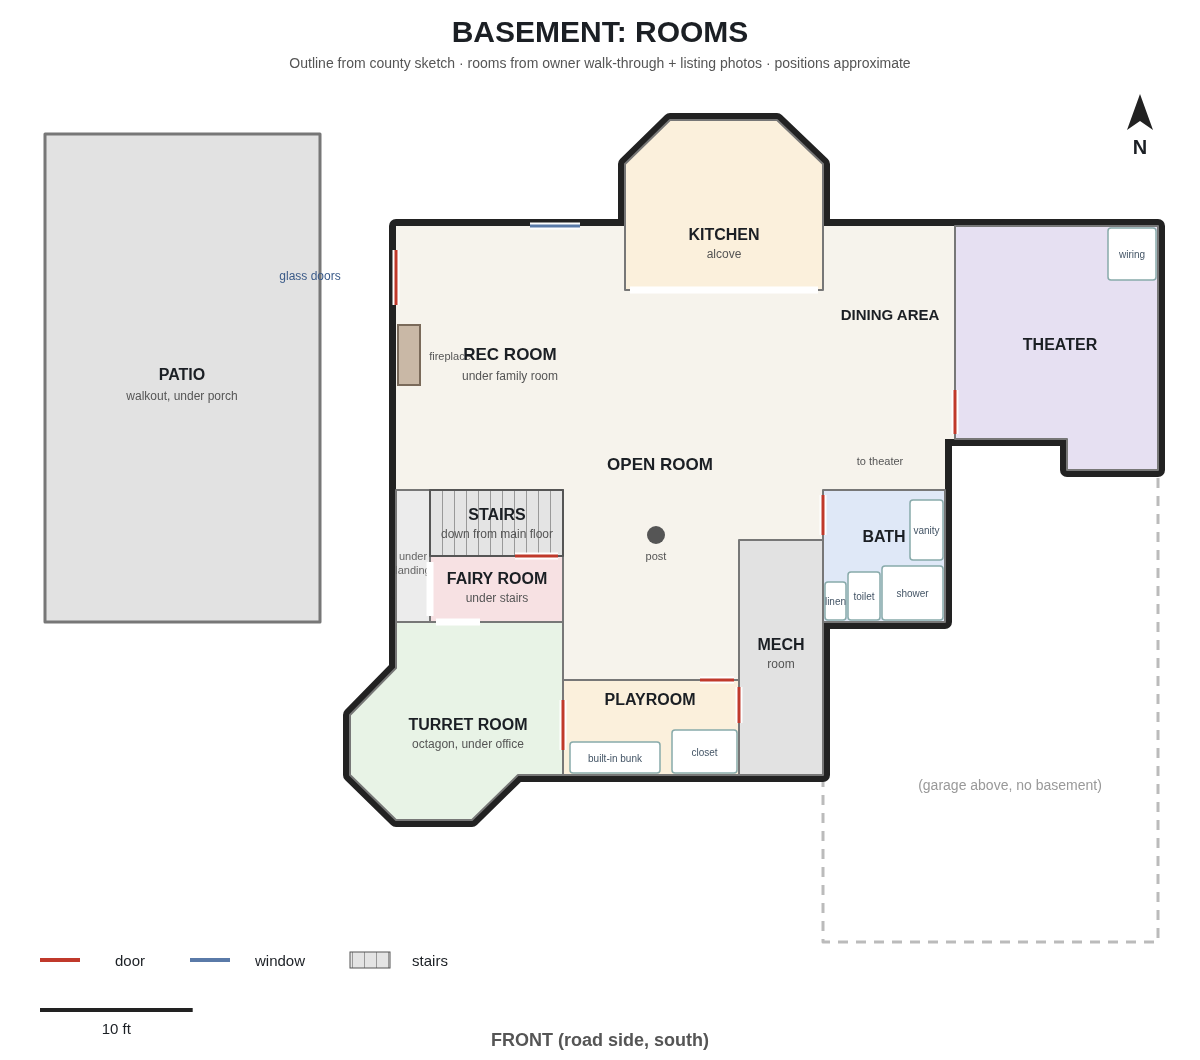
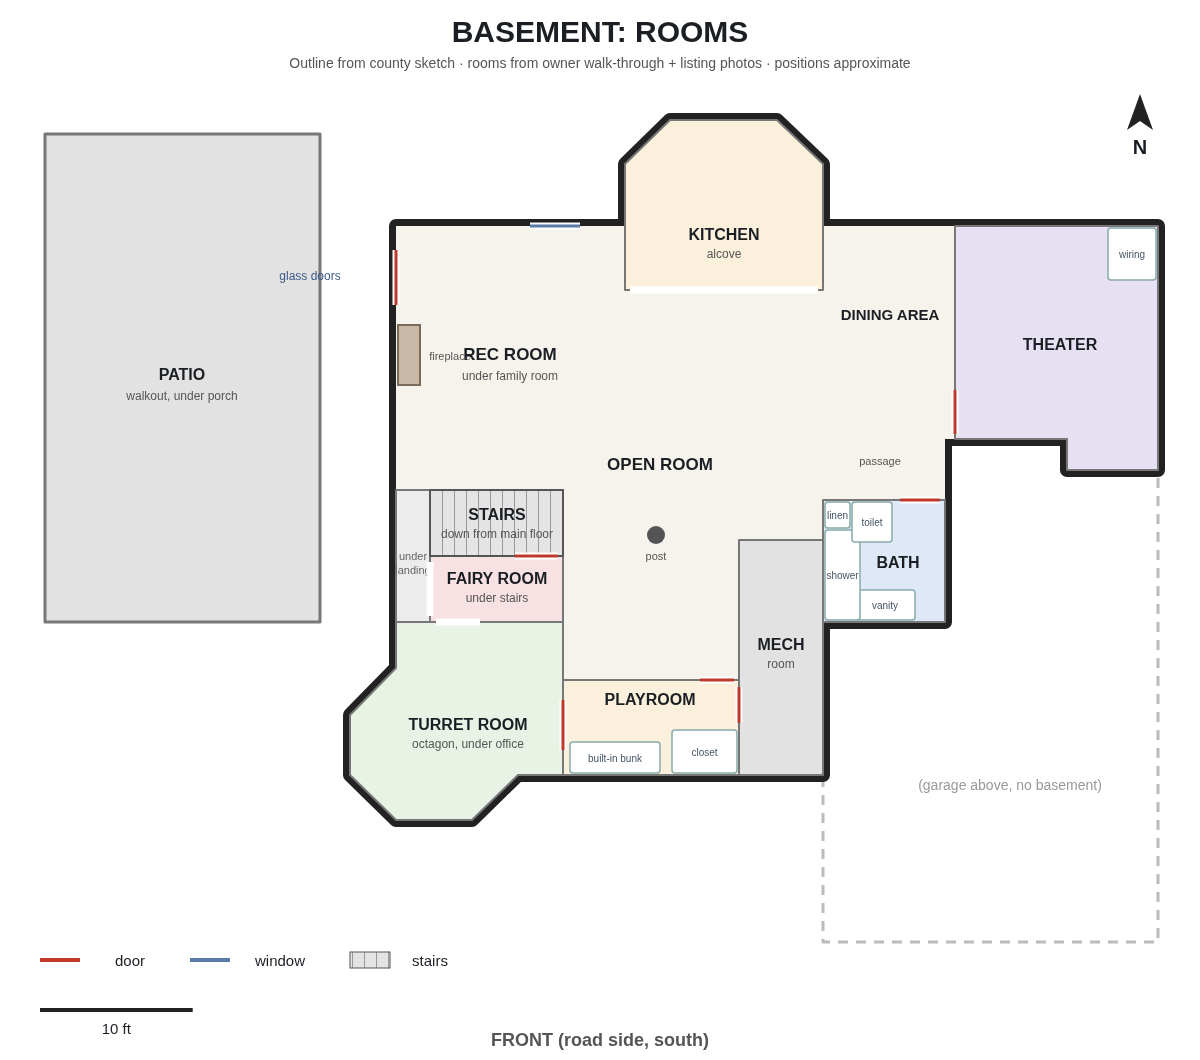
One plan per floor in order main/second/basement; stack basement bath under main bath

Changed region(s): [[0.6783, 0.4358, 0.8017, 0.5915]]

diff --git a/index.html b/index.html
@@ -56,12 +56,13 @@
 
 <section id="floorplans">
   <h2>Floor plans</h2>
-  <p>Outlines traced to scale from the Greene County auditor's building sketch. North is up; the front of the house (road side) faces south. Interior walls, rooms and sensor locations will be added as they're mapped.</p>
-  <figure><img src="img/floorplan/basement-rooms.png?v=202611220005" alt="Basement room plan: U-shaped stairs from the main floor arrive facing an open room with a support post; rec room with fireplace and glass doors to the west walkout; kitchen alcove under the breakfast nook; dining area; theater under the main-floor bedroom with a wiring closet in its northeast corner; bath; mechanical room; long playroom along the south wall with a built-in bunk and closet; turret room under the office reached through the room under the stairs and a hidden bookshelf door."><figcaption>Basement rooms, from the owner's walk-through on the county outline. Finished walkout; no basement under the garage. Positions are approximate.</figcaption></figure>
-  <figure><img src="img/floorplan/main.png?v=202611220005" alt="Main floor outline with vaulted family room, foyer, bump-out, attached garage about 22 by 31, and wraparound porch on the west and south."><figcaption>Main floor: house, attached garage (about 22 × 31) and wraparound porch.</figcaption></figure>
-  <figure><img src="img/floorplan/main-rooms.png?v=202611220005" alt="Main floor room plan: office in the southwest turret, foyer and front hall north from the front door, front room east of the foyer with a wide opening north into the sitting room, stairs in the southwest corner of the vaulted family room, kitchen with breakfast nook bay on the north, laundry, back hall, bath and a bedroom on the east side next to the garage."><figcaption>Main floor rooms. Outline from the county sketch; room layout worked out from the robot vacuum's map (where it can and can't reach, and its doorway gaps) plus listing photos. Positions are approximate.</figcaption></figure>
-  <figure><img src="img/floorplan/main-vacuum.png?v=202611220005" alt="Robot vacuum room map laid over the main floor outline."><figcaption>The robot vacuum's own map laid over the main floor (rotated 180° and scaled to match). It only maps open floor it can reach.</figcaption></figure>
-  <figure><img src="img/floorplan/second-rooms.png?v=202611220005" alt="Second floor room plan: U-shaped stairs from the family room arrive at a hall that overlooks the family room; a bedroom over the office turret, the open foyer, and a second bedroom along the south side; a long narrow hall bath, linen closet and the primary bedroom with double doors on the north side; the primary bath over the breakfast nook bay with jacuzzi tub, shower, vanity, toilet closet and linen closet; a short hall at the east end into an office over the garage with an HVAC closet and a small door to the unfinished attic."><figcaption>Second floor rooms, from the owner's walk-through on the county outline. Positions are approximate.</figcaption></figure>
+  <p>Outside walls traced to scale from the Greene County auditor's building sketch; rooms from the owner's walk-through, the robot vacuum's map and listing photos. North is up; the front of the house (road side) faces south. Room positions are approximate and still being corrected.</p>
+  <h3>Main floor</h3>
+  <figure><img src="img/floorplan/main-rooms.png?v=202611220009" alt="Main floor room plan: office in the southwest turret with a coat closet north of it, foyer open to the second floor, sitting room east of the foyer, pantry and walkway north of the sitting room, stairs up (open to the vaulted family room) and stairs down to the basement behind a door, kitchen with breakfast nook bay, laundry, back hall, bath and a bedroom on the east side next to the garage, wraparound porch."><figcaption>Main floor.</figcaption></figure>
+  <h3>Second floor</h3>
+  <figure><img src="img/floorplan/second-rooms.png?v=202611220009" alt="Second floor room plan: U-shaped stairs arrive at a hall overlooking the family room; a bedroom over the office turret, the open foyer and a second bedroom on the south side; hall bath, linen closet and the primary bedroom with an angled walk-in closet on the north side; primary bath over the breakfast nook bay; balcony off the primary bedroom; short hall into an office over the garage with an HVAC closet and a small door to the unfinished attic."><figcaption>Second floor.</figcaption></figure>
+  <h3>Basement</h3>
+  <figure><img src="img/floorplan/basement-rooms.png?v=202611220009" alt="Basement room plan: stairs arrive facing an open room with a support post; rec room with fireplace and glass doors to the west walkout; kitchen alcove under the breakfast nook; dining area; theater under the main-floor bedroom with a wiring closet; bath under the main-floor bath; mechanical room; playroom along the south wall with a built-in bunk and closet; turret room under the office reached through the room under the stairs and a hidden bookshelf door."><figcaption>Basement. Finished walkout; no basement under the garage.</figcaption></figure>
   <p class="sub">Source: <a href="img/floorplan/auditor-sketch.png">county auditor sketch</a> (all floors drawn on top of each other).</p>
 </section>
 
@@ -110,7 +111,7 @@
   </ul>
 
   <figure>
-    <img src="img/floor-heat-shelly-wiring.png?v=202611220005" alt="Wiring diagram: panel black to L, heater lead 1 to O, panel white plus heater lead 2 plus a jumper to N joined in wire nut 1, panel bare copper plus heater ground braid in wire nut 2, SW empty, floor sensor capped.">
+    <img src="img/floor-heat-shelly-wiring.png?v=202611220009" alt="Wiring diagram: panel black to L, heater lead 1 to O, panel white plus heater lead 2 plus a jumper to N joined in wire nut 1, panel bare copper plus heater ground braid in wire nut 2, SW empty, floor sensor capped.">
     <figcaption>Floor heat zone wired to a Shelly 1PM Gen4 UL (120 V).</figcaption>
   </figure>
 
@@ -146,6 +147,7 @@
 <section id="changes">
   <h2>Change log</h2>
   <ul>
+    <li><strong>2026-11-22</strong>: Floor plans trimmed to one image per floor (main, second, basement). Basement bath moved under the main-floor bath.</li>
     <li><strong>2026-11-22</strong>: Basement room plan added from walk-through.</li>
     <li><strong>2026-11-21</strong>: Second floor adjusted from listing photos: angled walk-in closet inside the primary bedroom door, glass double doors to the balcony beside the primary bath doorway, HVAC closet on the office's west wall, gable window at the office's south end, U-shaped stairs.</li>
     <li><strong>2026-11-21</strong>: Second floor room plan added from walk-through.</li>

diff --git a/img/floorplan/basement_rooms.py b/img/floorplan/basement_rooms.py
@@ -9,7 +9,7 @@ R={
  "stairs":[(420,400),(553,400),(553,466),(420,466)],
  "play":[(553,590),(729,590),(729,685),(553,685)],
  "mech":[(729,450),(813,450),(813,685),(729,685)],
- "bath":[(813,400),(935,400),(935,532),(813,532)],
+ "bath":[(813,410),(935,410),(935,532),(813,532)],
  "theater":[(945,136),(1148,136),(1148,380),(1057,380),(1057,349),(945,349)],
  "kitchen":[(615,74),(660,30),(767,30),(813,74),(813,200),(615,200)],
 }
@@ -17,7 +17,7 @@ FILL={"turret":"#e8f3e6","underland":"#ececec","fairy":"#f7e1e3","stairs":"#d9d9
  "bath":"#dfe8f7","theater":"#e6e0f2","kitchen":"#fbf0dc"}
 LBL={"turret":("TURRET ROOM","octagon, under office",458,640),"underland":("","",0,0),"fairy":("FAIRY ROOM","under stairs",487,494),
  "stairs":("STAIRS","down from main floor",487,430),"play":("PLAYROOM","",640,615),"mech":("MECH","room",771,560),
- "bath":("BATH","",874,452),"theater":("THEATER","",1050,260),"kitchen":("KITCHEN","alcove",714,150)}
+ "bath":("BATH","",888,478),"theater":("THEATER","",1050,260),"kitchen":("KITCHEN","alcove",714,150)}
 b=poly(gar,"none","#bbb",3,"10 8")+T(1000,700,"(garage above, no basement)",14,"normal","#999")
 b+=poly(patio,"#e2e2e2","#777",3)+T(172,290,"PATIO",16)+T(172,310,"walkout, under porch",12,"normal","#555")
 for p in [core,fam,bump]: b+=poly(p,"#222","#222",14)
@@ -26,7 +26,7 @@ for k,p in R.items(): b+=poly(p,FILL[k],"#777",2)
 b+=poly(R["stairs"],"url(#st)","#555",2)+T(403,470,"under",11,"normal","#666")+T(403,484,"landing",11,"normal","#666")
 # built-ins / fixtures
 fx=[((560,652,650,683),"built-in bunk"),((662,640,727,683),"closet"),
-    ((900,410,933,470),"vanity"),((872,476,933,530),"shower"),((838,482,870,530),"toilet"),((815,492,836,530),"linen"),
+    ((845,500,905,530),"vanity"),((815,440,850,530),"shower"),((842,412,882,452),"toilet"),((815,412,840,438),"linen"),
     ((1098,138,1146,190),"wiring")]
 for (x1,y1,x2,y2),n in fx:
     b+=f'<rect x="{x1}" y="{y1}" width="{x2-x1}" height="{y2-y1}" fill="#fff" stroke="#8aa" stroke-width="1.5" rx="3"/>'+T((x1+x2)/2,(y1+y2)/2+4,n,10,"normal","#456")
@@ -39,7 +39,7 @@ b+=gap(426,532,470,532)              # fairy room open into the turret room
 b+=gap(553,610,553,660,"door")       # hidden bookshelf door, turret -> playroom
 b+=gap(690,590,724,590,"door")       # playroom -> main room
 b+=gap(729,597,729,633,"door")       # playroom -> mechanical
-b+=gap(813,405,813,445,"door")       # bath
+b+=gap(890,410,930,410,"door")       # bath door on its north wall, from the passage
 b+=gap(945,300,945,344,"door")       # theater
 b+=gap(386,160,386,215,"door")       # glass double doors to walkout
 b+=gap(520,136,570,136,"door").replace("#c0392b","#5a7aa8")  # window
@@ -49,7 +49,7 @@ for k,(a,s,x,y) in LBL.items():
     b+=T(x,y,a,16)
     if s: b+=T(x,y+18,s,12,"normal","#555")
 b+=T(500,270,"REC ROOM",17)+T(500,290,"under family room",12,"normal","#555")
-b+=T(650,380,"OPEN ROOM",17)+T(880,230,"DINING AREA",15)+T(870,375,"to theater",11,"normal","#555")
+b+=T(650,380,"OPEN ROOM",17)+T(880,230,"DINING AREA",15)+T(870,375,"passage",11,"normal","#555")
 b+=T(300,190,"glass doors",12,"normal","#3a5a88")
 defs='<defs><pattern id="st" width="12" height="12" patternUnits="userSpaceOnUse"><rect width="12" height="12" fill="#e4e4e4"/><line x1="0" y1="0" x2="0" y2="12" stroke="#999" stroke-width="2"/></pattern></defs>'
 W,H=1200,1060; sb=10*15.27
